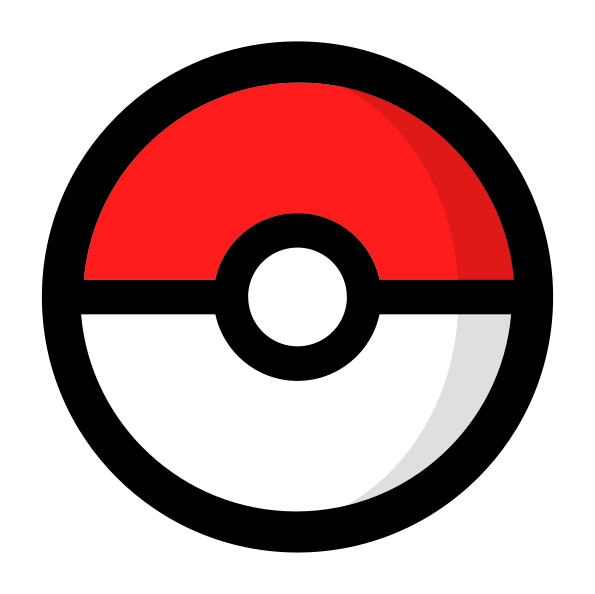
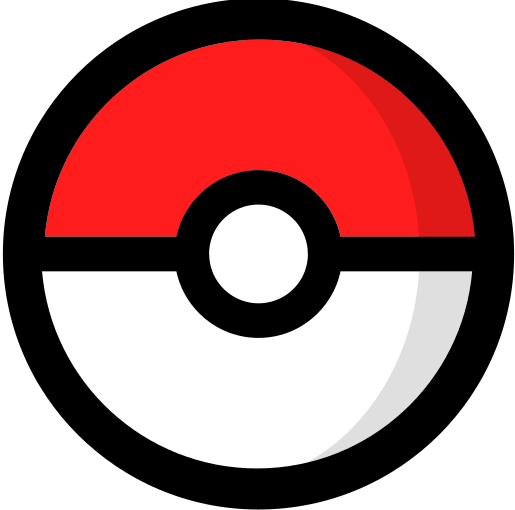
landing page terminada

diff --git a/client/src/index.css b/client/src/index.css
@@ -21,48 +21,54 @@ body{
   font-size: 1.2rem;
 }
 
-
-.btn{
-  padding:.5rem 1rem;
-  cursor: pointer;
+img{
+  max-width: 100%;
+  display: block;
 }
 
-
-
-/******************************************************** Landing */
-
-.landing__Page{
-  background-image: linear-gradient(-45deg, rgba(219, 156, 30, 0.641), rgba(25, 197, 231, 0.641)), url('../src/img/32027-negro.jpg');
-  background-position: center;
-  background-attachment: fixed;
-  height: 100vh;
-  display: grid;
-  grid-template-rows: repeat(5, 1fr);
-  grid-template-columns: repeat(3, 1fr);
-  flex-direction: column;
-  align-items: center;
-  justify-content: center;
+.contenedor{
+  width: 1000px;
+  margin: 0 auto;
+  max-width: 95%;
 }
 
-
-.btn-start{
+a{
+  display: inline-block;
+  text-decoration: none;
   font-family: var(--botones);
-  font-size: 2.5rem;
-  text-align: center;
-  background-color: rgba(195, 31, 31, 0.782);
-  border: none;
-  grid-column: 2/3;
-  grid-row: 4/5;
-  justify-self: center;
-};
+  transition: all .4s ease-in;
+}
 
-.btn-start:hover{
+a .btn__landing:hover{
   background-color: yellow;
+  color:red;
 }
 
-.pokeball{
-  
-  grid-column: 2/3;
-  grid-row:2/3
+
+/********************************************************** landing*/
+.landing{
+  background-image: url('../src//img/45651.jpg') ;
+  height: 100vh;
+  background-repeat: no-repeat;
+  background-position: center center;
+  background-size: cover;
 }
+
+.landing__center{
+  display: flex;
+  justify-content: center;
+  align-items: center;
+  flex-direction: column;
+  height: 100%;
+}
+
+
+
+.btn__landing{
+  padding:.5rem 1.5rem;
+  font-size: 2.5rem;
+  background-color: rgb(219, 40, 40);
+  border-radius: 30px;
+  color: white
+};
 

diff --git a/client/src/Componets/LandingPage.jsx b/client/src/Componets/LandingPage.jsx
@@ -1,13 +1,16 @@
 import React from "react";
-import pokeball from '../img/Poké_Ball_icon.svg';
-//import { Link } from "react-router-dom";
-import '../index.css'
+import logo from "../img/pngegg.png"
+import { NavLink } from "react-router-dom";
 
 export default function Landing(){
 
 
-  return(<div className="landing__Page">
-    <img src={pokeball} className="pokeball" alt="pokeball" />
-    <button className="btn btn-start">Start</button>
+  return(<div className="landing">
+  <div className="landing__center">
+    <img src={logo} alt="logo" />
+    <NavLink to="/home">
+    <div className="btn btn__landing">Ingresar</div>
+    </NavLink>
+  </div>
   </div>)
 }

diff --git a/client/src/App.js b/client/src/App.js
@@ -1,7 +1,6 @@
-import './App.css';
 import {BrowserRouter, Route, Switch} from 'react-router-dom';
 import Landing from './Componets/LandingPage';
-
+import '../src/index.css'
 function App() {
   return (
     <BrowserRouter>

diff --git a/client/src/App.css b/client/src/App.css
@@ -1,4 +1,4 @@
-.App {
+/* .App {
   text-align: center;
 }
 
@@ -35,4 +35,4 @@
   to {
     transform: rotate(360deg);
   }
-}
+} */
